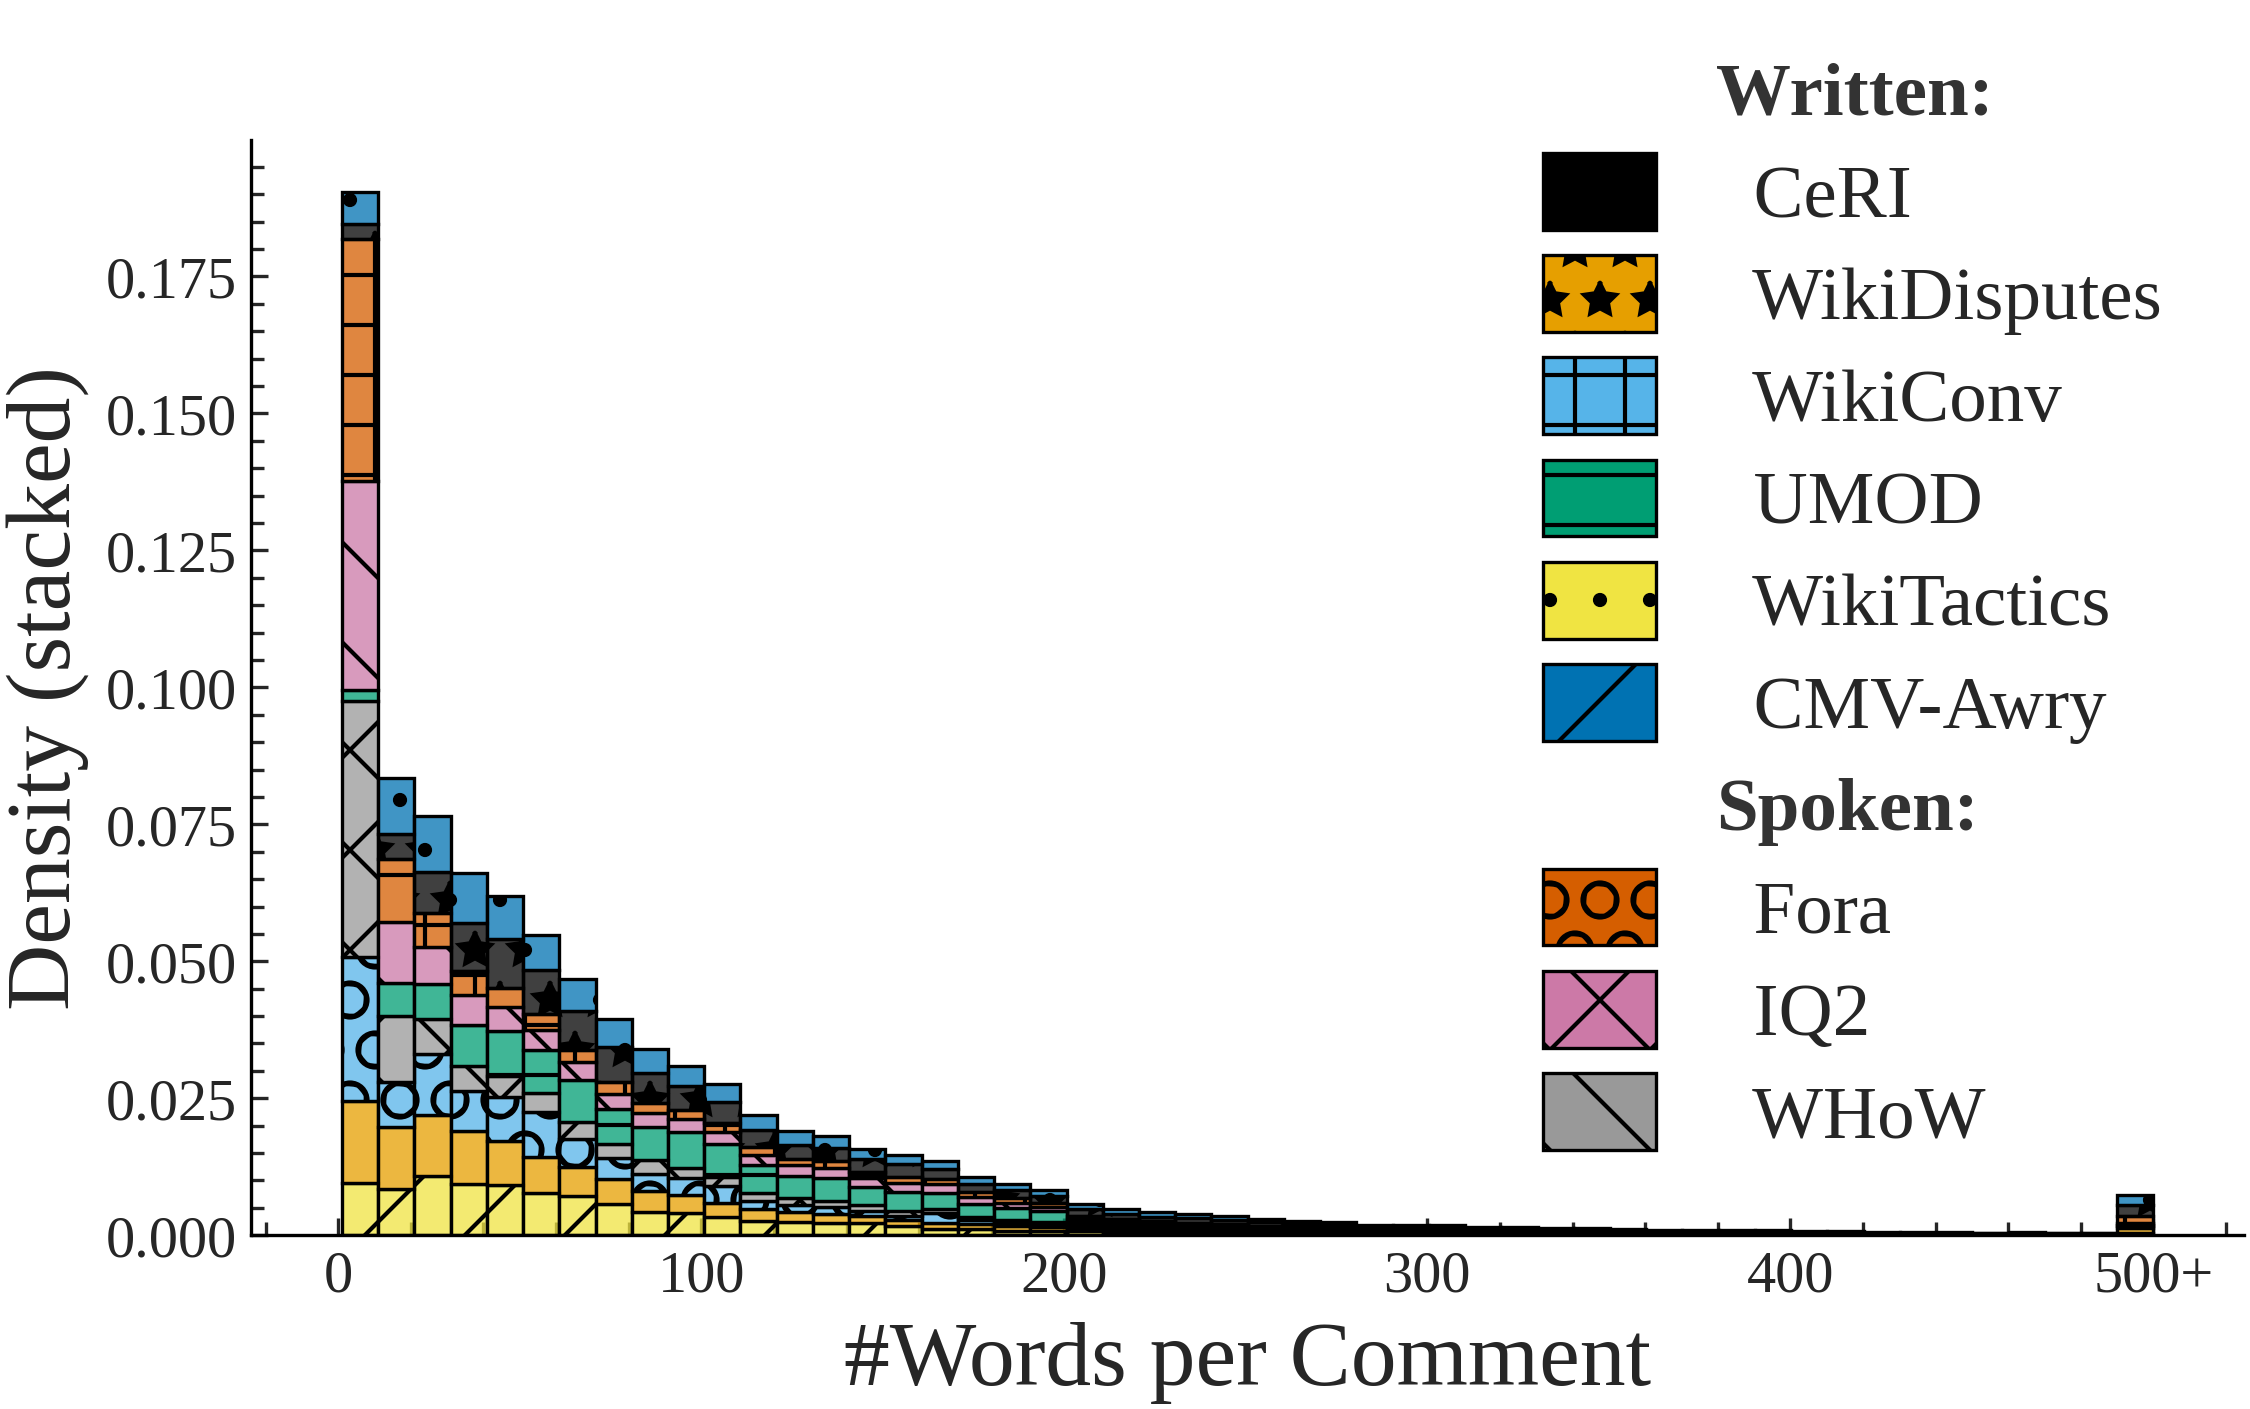
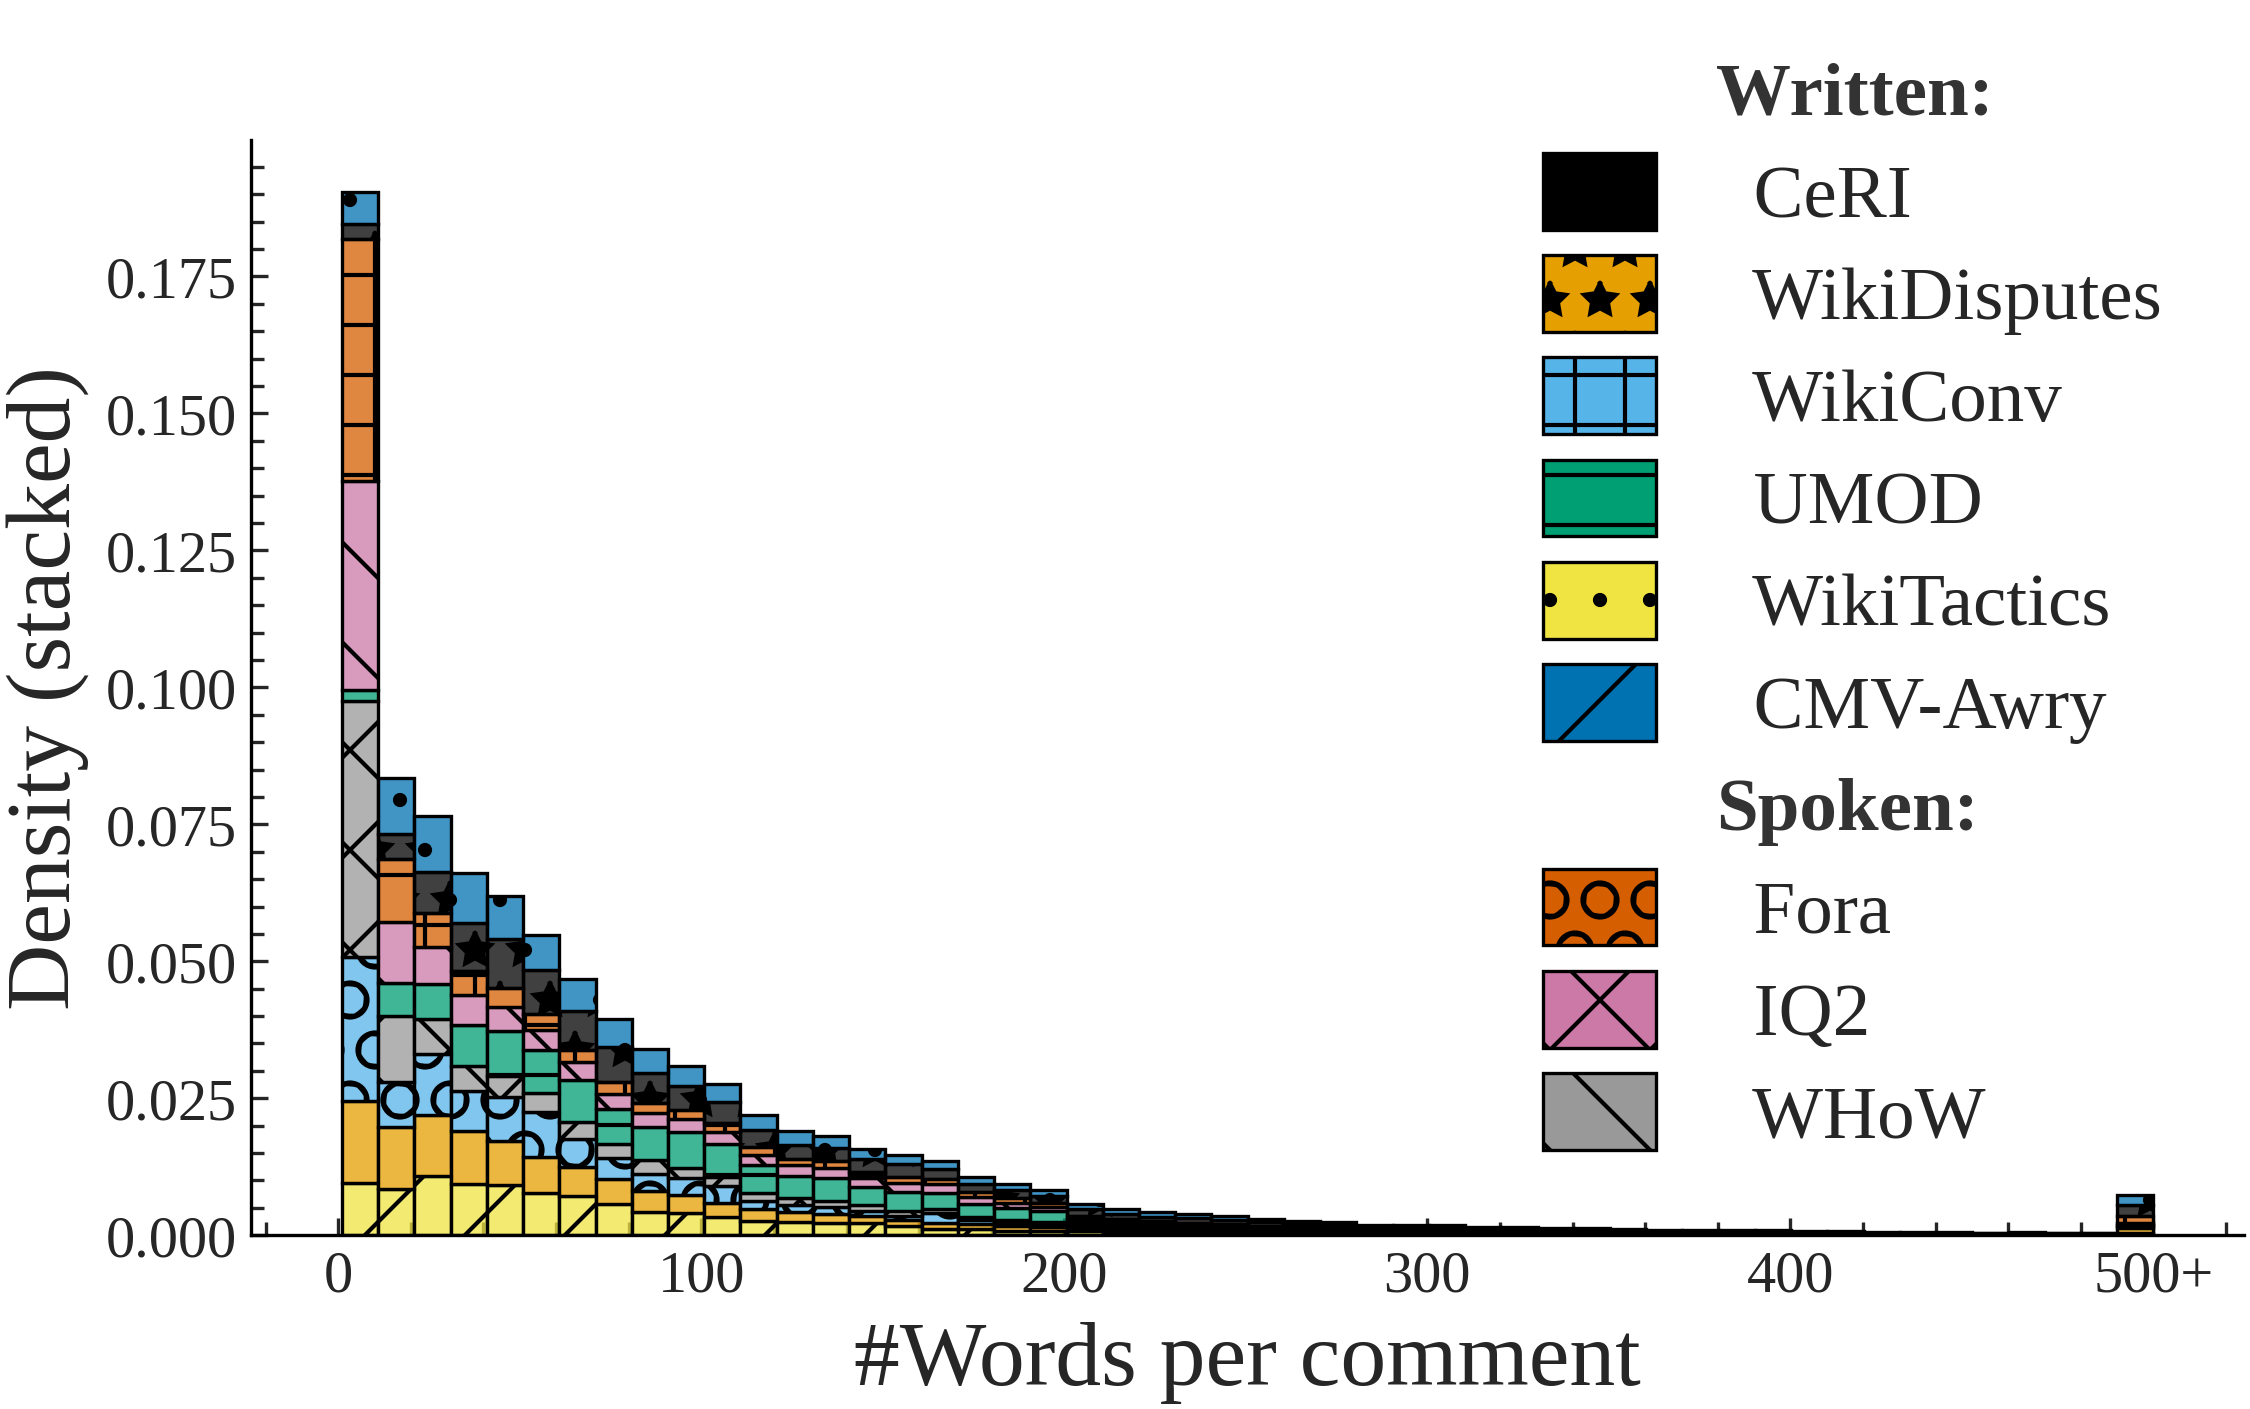
minor plot improvements

Changed region(s): [[0.3733, 0.9368, 0.7467, 0.9993]]

diff --git a/src/dataset_analysis.py b/src/dataset_analysis.py
@@ -155,8 +155,8 @@ def moderation_plot(df: pd.DataFrame, graph_dir: Path) -> None:
         estimator="mean",
         errorbar=("ci", 95),
         err_kws={
-            "linewidth": 2.5,
-            "color": "#00FFFF",
+            "linewidth": 3.5,
+            "color": "#EE4B2B",
         },
     )
     apply_hatches_to_histplot(ax, order)  # reuse the same patch-walker
@@ -205,7 +205,7 @@ def comments_per_discussion_plot(df: pd.DataFrame, graph_dir: Path) -> None:
     ax.set_xticklabels(["0", "100", "200", "300", "400", "500+"])
     ax.spines["top"].set_visible(False)
     ax.spines["right"].set_visible(False)
-    plt.xlabel("#Comments/Discussion")
+    plt.xlabel("#Comments per discussion")
     plt.ylabel("Density (stacked)")
 
     grouped_legend(ax, set(hue_order))
@@ -243,7 +243,7 @@ def words_per_comment_plot(df: pd.DataFrame, graph_dir: Path) -> None:
     ax.set_xticklabels(["0", "100", "200", "300", "400", "500+"])
     ax.spines["top"].set_visible(False)
     ax.spines["right"].set_visible(False)
-    plt.xlabel("#Words per Comment")
+    plt.xlabel("#Words per comment")
     plt.ylabel("Density (stacked)")
 
     grouped_legend(ax, set(hue_order))